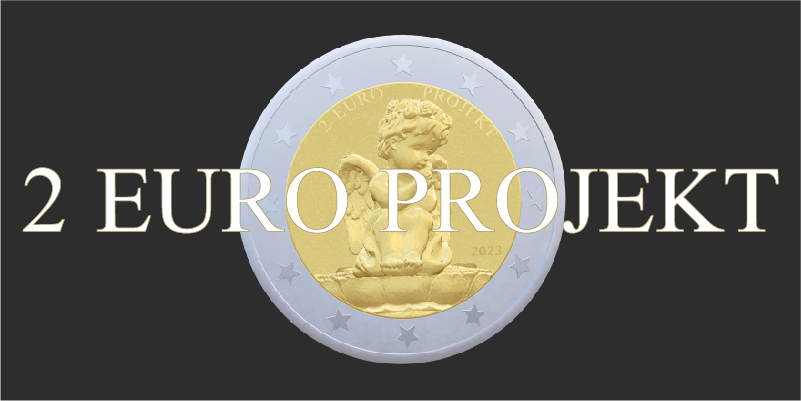
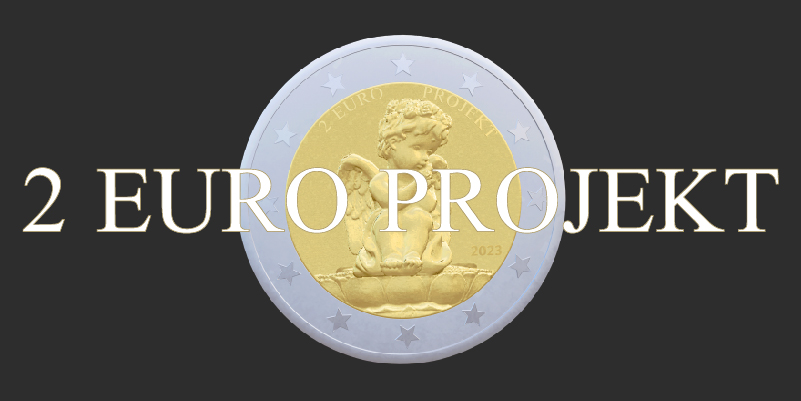
image resize

Changed region(s): [[0.0, 0.0, 1.0, 1.0], [0.0, 0.0, 0.0312, 0.0299]]

diff --git a/app/src/loadingScreen.tsx b/app/src/loadingScreen.tsx
@@ -59,26 +59,31 @@ export default function LoadingScreen() {
         src={LoadingEuro}
         alt="loadingEuro"
         className={`w-[80px] h-fit ${progress >= 20 ? "z-50" : "z-0"}`}
+        quality={40}
       />
       <Image
         src={LoadingEuro}
         alt="loadingEuro"
         className={`w-[80px] h-fit ${star2 ? "z-50" : "z-0"}`}
+        quality={40}
       />
       <Image
         src={LoadingEuro}
         alt="loadingEuro"
         className={`w-[80px] h-fit ${star3 ? "z-50" : "z-0"}`}
+        quality={40}
       />
       <Image
         src={LoadingEuro}
         alt="loadingEuro"
         className={`w-[80px] h-fit ${star4 ? "z-50" : "z-0"}`}
+        quality={40}
       />
       <Image
         src={LoadingEuro}
         alt="loadingEuro"
         className={`w-[80px] h-fit ${star5 ? "z-50" : "z-0"}`}
+        quality={40}
       />
     </div>
   );

diff --git a/app/src/finScene.tsx b/app/src/finScene.tsx
@@ -34,7 +34,7 @@ export default function FinScene() {
     >
       <div className="flex justify-center items-center mb-[30px]">
         <div className="flex justify-center items-center lg:mr-10 zero:mr-3">
-          <div className="text-right w-[75px] lg:mr-4 zero:mr-1 ">
+          <div className="text-right w-[75px] lg:mr-2 zero:mr-0 ">
             ReStart :
           </div>
           <button
@@ -67,7 +67,7 @@ export default function FinScene() {
           </Link>
         </div>
         <div className="flex justify-center items-center">
-          <div className="text-right lg:w-[75px] zero:w-[60px] mr-4 ">
+          <div className="text-right lg:w-[75px] zero:w-[60px] lg:mr-4 zero:mr-2 ">
             Site :
           </div>
 
